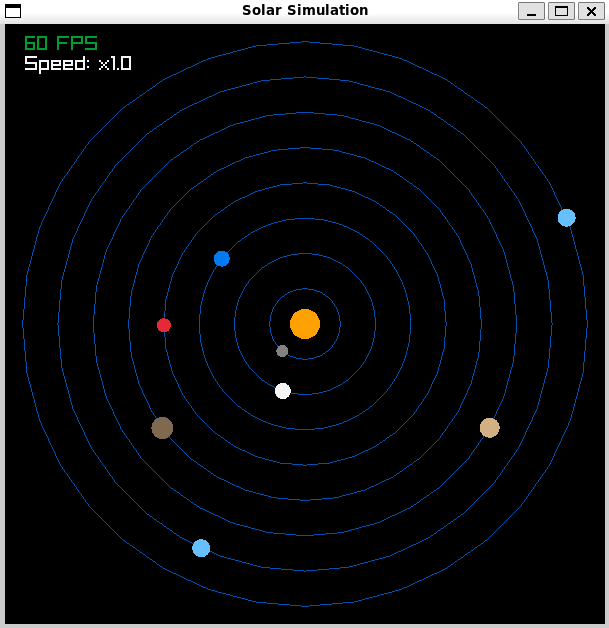
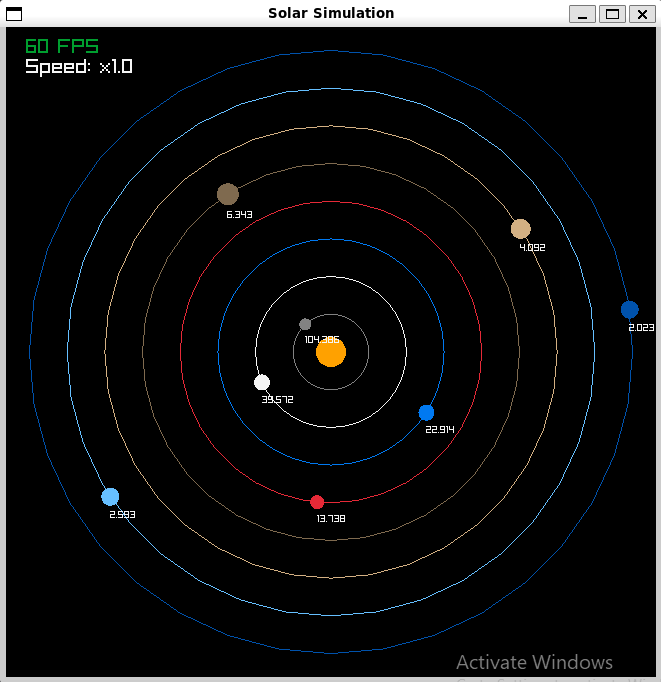
refactor

diff --git a/main.c b/main.c
@@ -5,37 +5,35 @@
 // Some Defines
 //----------------------------------------------------------------------------------
 
-#define SIZE   600.0
-#define WIDTH  SIZE
-#define HEIGHT SIZE
-
-#define HALF_W (WIDTH / 2)
-#define HALF_H (HEIGHT / 2)
-
-#define AU2PIXEL    (SIZE / 17)
-#define ORBIT_COLOR DARKBLUE
-#define BASE_POS    (Vector2){WIDTH / 2, HEIGHT / 2}
+#define SIZE      650.0
+#define HALF_SIZE (SIZE / 2)
+#define BASE_POS  ((Vector2){HALF_SIZE, HALF_SIZE})
 
 #define TAU (PI * 2)
+
+#define FOR_PLANETS(n) for (int i = 0; i < (n); ++i)
 
 //----------------------------------------------------------------------------------
 // Types and Structures Definition
 //----------------------------------------------------------------------------------
 
 typedef struct {
+    char is_sun;
     Vector2 pos;
     Color color;
     float radius;
     float orbit_radius;   // distance from sun (in pixel)
     float orbit_speed;
     float angle;
+    float year;           // year on the planet
 } planet_t;
 
 static planet_t planet_new(Vector2 pos,
                            float radius,
                            float orbit_radius,
                            float orbit_speed,
-                           Color color);
+                           Color color,
+                           char is_sun);
 static void planet_draw(planet_t *planet);
 static void planet_update(planet_t *planet, float delta);
 
@@ -43,10 +41,15 @@ static void planet_update(planet_t *planet, float delta);
 // Global Variables Declaration
 //------------------------------------------------------------------------------------
 
-static int frames  = 0;
-static float speed = 1.0f;
-static planet_t sun, mercury, venus, earth, mars, jupiter, saturn, uranus,
-    neptune;
+static const int WIDTH  = SIZE;
+static const int HEIGHT = SIZE;
+
+static const float AU = SIZE * 0.058;   // AU to pixel (5.8% of window size)
+static const float KM = 5.0f;           // km to pixel
+
+static int frames          = 0;
+static float speed         = 1.0f;
+static planet_t planets[9] = {0};
 
 //------------------------------------------------------------------------------------
 // Module Functions Declaration (local)
@@ -83,25 +86,26 @@ static void update_pos(planet_t *planet)
     float nx = cosf(planet->angle) * planet->orbit_radius;
     float ny = sinf(planet->angle) * planet->orbit_radius;
 
-    planet->pos.x = HALF_W + nx;
-    planet->pos.y = HALF_H - ny;
+    planet->pos.x = HALF_SIZE + nx;
+    planet->pos.y = HALF_SIZE - ny;
 }
 
 planet_t planet_new(Vector2 pos,
                     float radius,
                     float orbit_radius,
                     float orbit_speed,
-                    Color color)
+                    Color color,
+                    char is_sun)
 {
     planet_t planet;
 
-    orbit_radius *= AU2PIXEL;
-
+    planet.is_sun       = is_sun;
     planet.color        = color;
-    planet.orbit_radius = orbit_radius;
-    planet.orbit_speed  = orbit_speed;
+    planet.orbit_radius = orbit_radius * AU;
+    planet.orbit_speed  = orbit_speed * KM;
     planet.radius       = radius;
-    planet.angle        = GetRandomValue(0, 360) * DEG2RAD;
+    planet.angle        = is_sun ? 0 : GetRandomValue(0, 360) * DEG2RAD;
+    planet.year         = 0;
     update_pos(&planet);
 
     return planet;
@@ -109,20 +113,27 @@ planet_t planet_new(Vector2 pos,
 
 void planet_draw(planet_t *planet)
 {
-    DrawCircleLinesV(BASE_POS, planet->orbit_radius, ORBIT_COLOR);
+    DrawCircleLinesV(BASE_POS, planet->orbit_radius, planet->color);
     DrawCircleV(planet->pos, planet->radius, planet->color);
+
+    if (!planet->is_sun) {
+        float year = planet->year + (planet->angle / TAU);
+        DrawText(TextFormat("%.3f", year), planet->pos.x,
+                 planet->pos.y + (planet->radius + 5), 10, RAYWHITE);
+    }
 }
 
 void planet_update(planet_t *planet, float delta)
 {
     if (planet->angle > TAU) {
         planet->angle -= TAU;
+        planet->year++;
     }
 
     update_pos(planet);
 
     float angular_vel = planet->orbit_speed / planet->orbit_radius;
-    planet->angle += (angular_vel * 4 * delta);
+    planet->angle += (angular_vel * delta);
 }
 
 //------------------------------------------------------------------------------------
@@ -135,22 +146,22 @@ void InitGame()
 
     frames = 0;
 
-    sun     = planet_new(BASE_POS, 15, 0, 0, ORANGE);
-    mercury = planet_new(BASE_POS, 6, 1, 48.4, GRAY);
-    venus   = planet_new(BASE_POS, 8, 2, 36.0, RAYWHITE);
-    earth   = planet_new(BASE_POS, 8, 3, 30.8, BLUE);
-    mars    = planet_new(BASE_POS, 7, 4, 25.1, RED);
-    jupiter = planet_new(BASE_POS, 11, 5, 14.1, BROWN);
-    saturn  = planet_new(BASE_POS, 10, 6, 10.7, BEIGE);
-    uranus  = planet_new(BASE_POS, 9, 7, 7.8, SKYBLUE);
-    neptune = planet_new(BASE_POS, 9, 8, 6.4, SKYBLUE);
+    planets[0] = planet_new(BASE_POS, 15, 0, 0, ORANGE, 1);       // sun
+    planets[1] = planet_new(BASE_POS, 6, 1, 48.4, GRAY, 0);       // mercury
+    planets[2] = planet_new(BASE_POS, 8, 2, 36.0, RAYWHITE, 0);   // venus
+    planets[3] = planet_new(BASE_POS, 8, 3, 30.8, BLUE, 0);       // earth
+    planets[4] = planet_new(BASE_POS, 7, 4, 25.1, RED, 0);        // mars
+    planets[5] = planet_new(BASE_POS, 11, 5, 14.1, BROWN, 0);     // jupiter
+    planets[6] = planet_new(BASE_POS, 10, 6, 10.7, BEIGE, 0);     // saturn
+    planets[7] = planet_new(BASE_POS, 9, 7, 7.8, SKYBLUE, 0);     // uranus
+    planets[8] = planet_new(BASE_POS, 9, 8, 6.4, DARKBLUE, 0);    // neptune
 }
 
 void UpdateGame()
 {
     float delta = GetFrameTime() * speed;
 
-    if (frames % 10 == 0) {
+    if (frames == 7) {
         if (IsKeyDown(KEY_MINUS))
             speed -= 0.1;
         else if (IsKeyDown(KEY_EQUAL))
@@ -160,14 +171,11 @@ void UpdateGame()
         frames = 0;
     }
 
-    planet_update(&mercury, delta);
-    planet_update(&venus, delta);
-    planet_update(&earth, delta);
-    planet_update(&mars, delta);
-    planet_update(&jupiter, delta);
-    planet_update(&saturn, delta);
-    planet_update(&uranus, delta);
-    planet_update(&neptune, delta);
+    // sun doesn't need to be updated
+    FOR_PLANETS(8)
+    {
+        planet_update(&planets[i + 1], delta);
+    }
 
     frames++;
 }
@@ -180,15 +188,10 @@ void DrawGame()
     DrawFPS(20, 10);
     DrawText(TextFormat("Speed: x%.1f", speed), 20, 30, 20, RAYWHITE);
 
-    planet_draw(&sun);
-    planet_draw(&mercury);
-    planet_draw(&venus);
-    planet_draw(&earth);
-    planet_draw(&mars);
-    planet_draw(&jupiter);
-    planet_draw(&saturn);
-    planet_draw(&uranus);
-    planet_draw(&neptune);
+    FOR_PLANETS(9)
+    {
+        planet_draw(&planets[i]);
+    }
 
     EndDrawing();
 }
